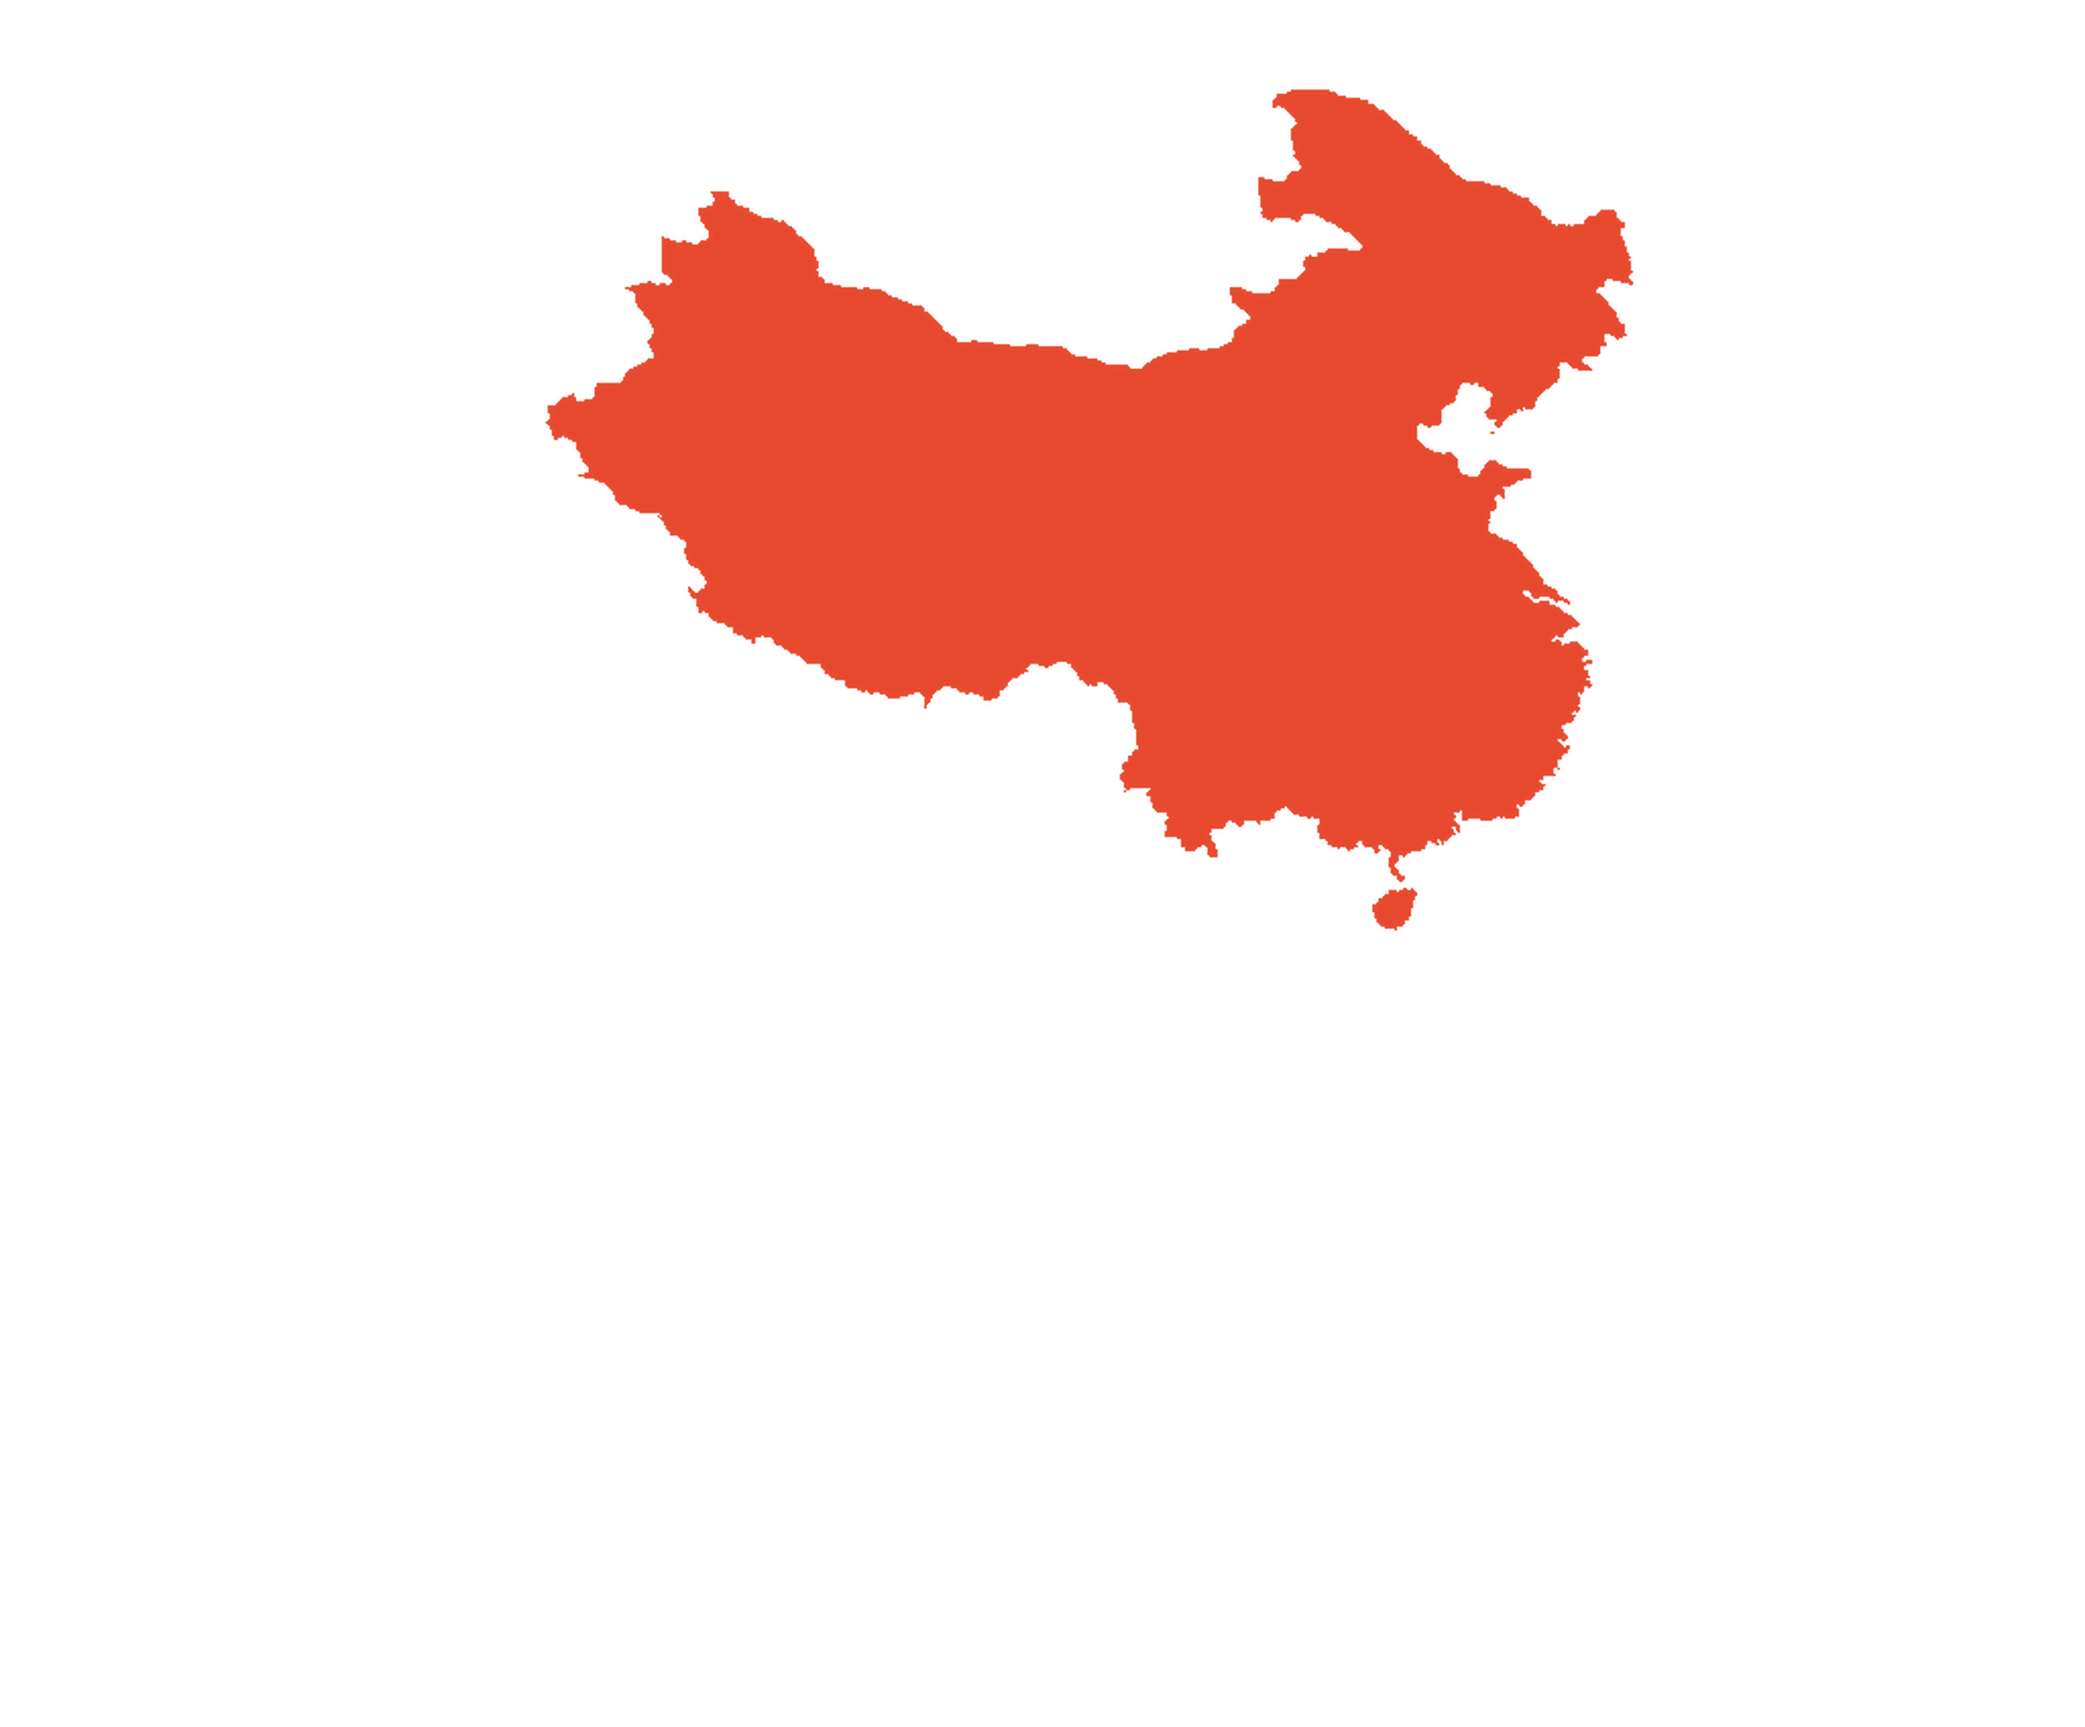
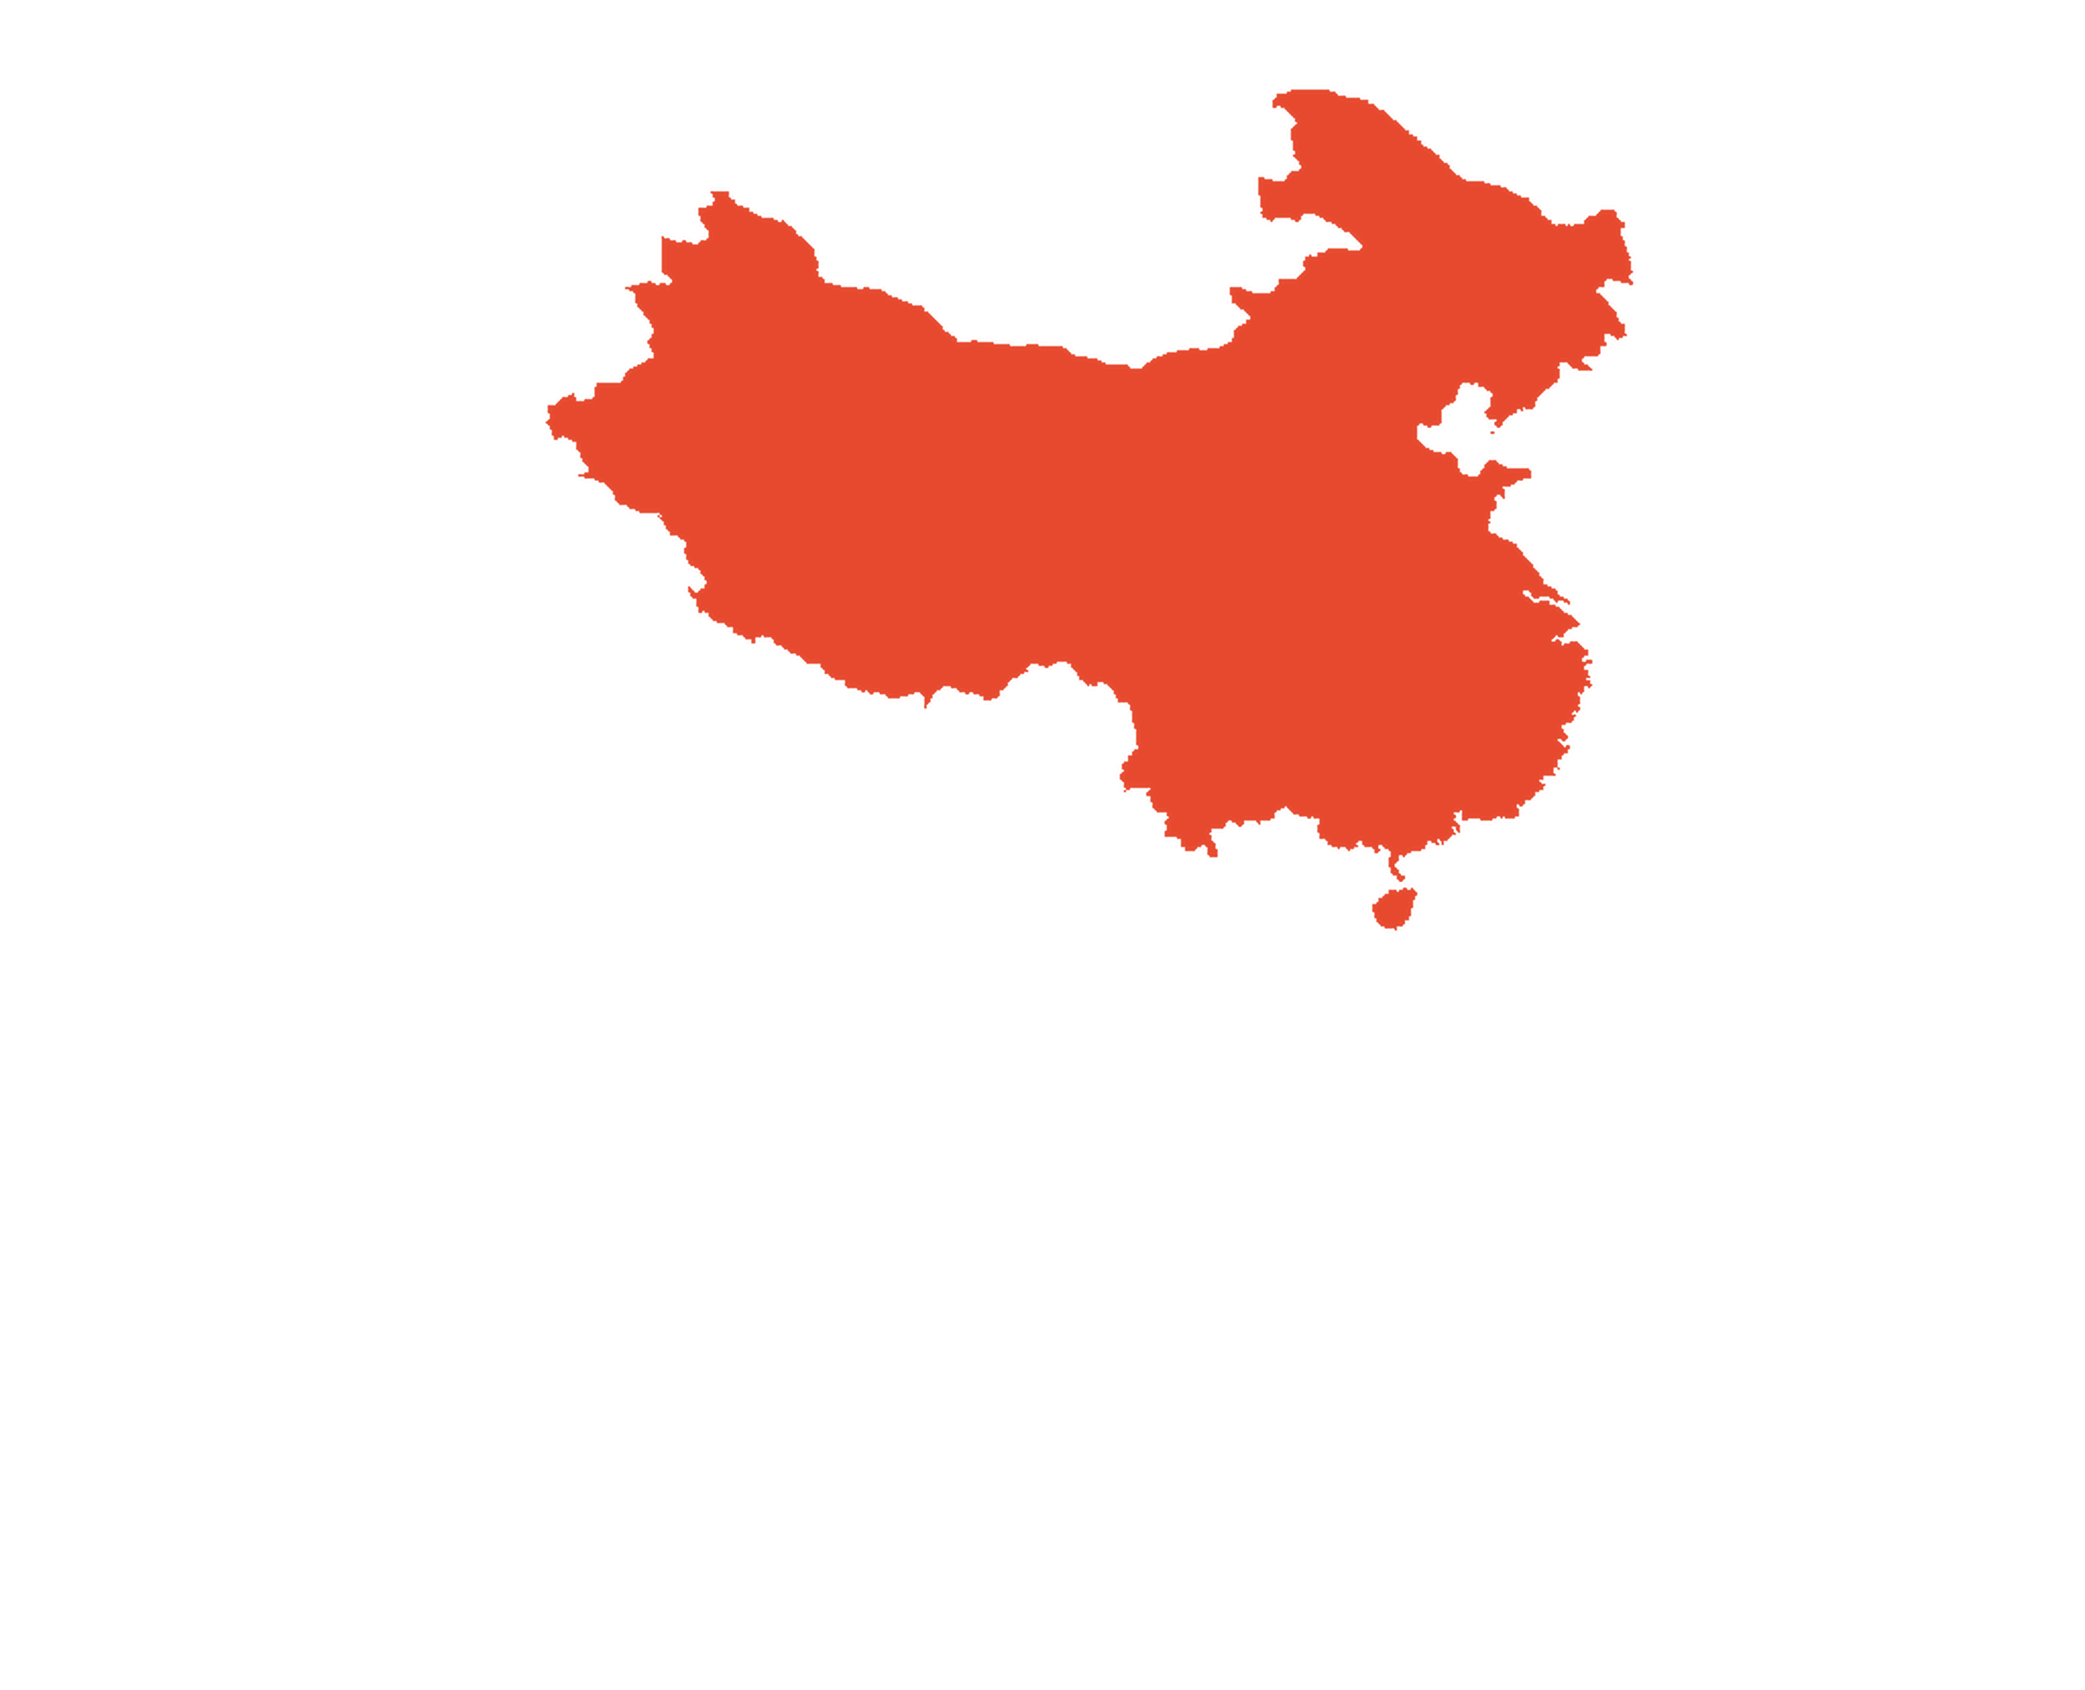
push

diff --git a/impact-one-million/assets/js/main.js b/impact-one-million/assets/js/main.js
@@ -428,7 +428,7 @@
 		'china',
 	];
 	const MAP_W = 1024;
-	const MAP_H = 848;
+	const MAP_H = 830;
 	const masks = {};
 
 	function loadMask(img) {

diff --git a/impact-one-million/templates/parts/where-we-work-map.php b/impact-one-million/templates/parts/where-we-work-map.php
@@ -21,7 +21,7 @@ $map_slugs = array( 'china', 'vietnam', 'indonesia', 'india', 'bangladesh', 'sri
 		sizes="(min-width: 1280px) 1200px, 100vw"
 		alt="<?php echo esc_attr__( 'Map of countries where we work', 'impact-one-million' ); ?>"
 		width="1024"
-		height="848"
+		height="830"
 		decoding="async"
 		loading="lazy"
 		data-map-base
@@ -40,7 +40,7 @@ $map_slugs = array( 'china', 'vietnam', 'indonesia', 'india', 'bangladesh', 'sri
 			sizes="(min-width: 1280px) 1200px, 100vw"
 			alt=""
 			width="1024"
-			height="848"
+			height="830"
 			data-country="<?php echo esc_attr( $slug ); ?>"
 			decoding="async"
 			aria-hidden="true"
